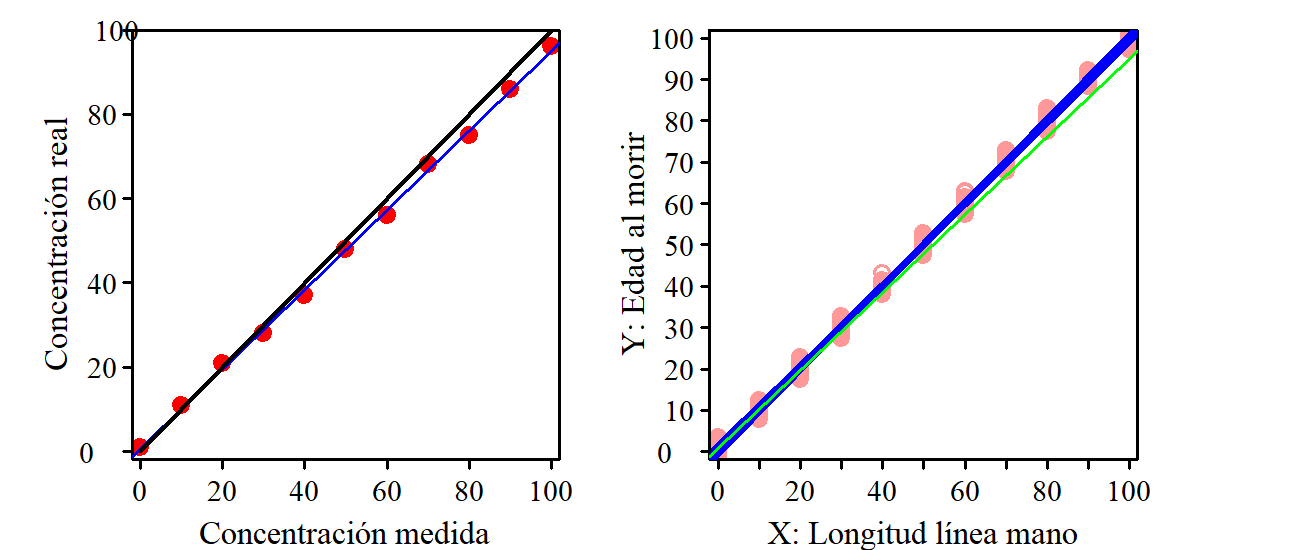
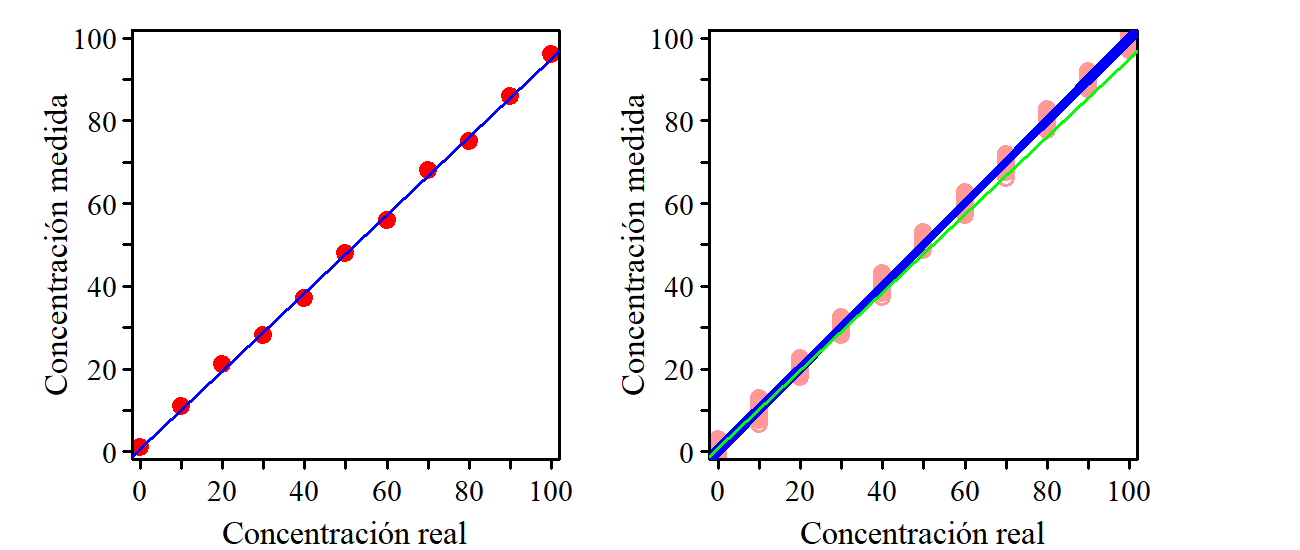
Un poquito más

diff --git a/docs/62_regresionSimple.html b/docs/62_regresionSimple.html
@@ -314,7 +314,7 @@ div.csl-indent {
   <li><a href="#minimizando-la-suma-del-valor-absoluto-de-los-residuos" id="toc-minimizando-la-suma-del-valor-absoluto-de-los-residuos" class="nav-link" data-scroll-target="#minimizando-la-suma-del-valor-absoluto-de-los-residuos">Minimizando la suma del valor absoluto de los residuos</a></li>
   <li><a href="#minimizando-la-suma-de-los-cuadrados-de-los-residuos" id="toc-minimizando-la-suma-de-los-cuadrados-de-los-residuos" class="nav-link" data-scroll-target="#minimizando-la-suma-de-los-cuadrados-de-los-residuos">Minimizando la suma de los cuadrados de los residuos</a></li>
   </ul></li>
-  <li><a href="#mínimos-cuadrados.-cálculo-de-los-coeficientes" id="toc-mínimos-cuadrados.-cálculo-de-los-coeficientes" class="nav-link" data-scroll-target="#mínimos-cuadrados.-cálculo-de-los-coeficientes"><span class="header-section-number">14.2</span> Mínimos cuadrados. Cálculo de los coeficientes</a>
+  <li><a href="#sec-calculoCoeficientes" id="toc-sec-calculoCoeficientes" class="nav-link" data-scroll-target="#sec-calculoCoeficientes"><span class="header-section-number">14.2</span> Mínimos cuadrados. Cálculo de los coeficientes</a>
   <ul class="collapse">
   <li><a href="#sin-fórmulas" id="toc-sin-fórmulas" class="nav-link" data-scroll-target="#sin-fórmulas">Sin fórmulas</a></li>
   <li><a href="#usando-las-fórmulas" id="toc-usando-las-fórmulas" class="nav-link" data-scroll-target="#usando-las-fórmulas">Usando las fórmulas</a></li>
@@ -412,7 +412,9 @@ Modelo determinista frente a modelo estadístico
 <figcaption class="figure-caption">Figura&nbsp;14.2: Ajuste a ojo y el que minimiza la suma de los cuadrados de los residuos.</figcaption>
 </figure>
 </div>
+<div id="tbl-letters" class="anchored">
 <table class="table">
+<caption>Tabla&nbsp;14.1: Ajuste a ojo. Ventajas e inconvenientes</caption>
 <colgroup>
 <col style="width: 10%">
 <col style="width: 90%">
@@ -435,6 +437,7 @@ Modelo determinista frente a modelo estadístico
 </tr>
 </tbody>
 </table>
+</div>
 </section>
 <section id="método-de-ishikawa" class="level3 unnumbered">
 <h3 class="unnumbered anchored" data-anchor-id="método-de-ishikawa">Método de Ishikawa</h3>
@@ -447,7 +450,7 @@ Modelo determinista frente a modelo estadístico
 </div>
 <div id="tbl-letters" class="anchored">
 <table class="table">
-<caption>Tabla&nbsp;14.1: Método de Ishikawa. Ventajas e inconvenientes</caption>
+<caption>Tabla&nbsp;14.2: Método de Ishikawa. Ventajas e inconvenientes</caption>
 <colgroup>
 <col style="width: 10%">
 <col style="width: 90%">
@@ -498,7 +501,7 @@ Kaoru Ishikawa (1915-1989)
 </div>
 <div id="tbl-letters" class="anchored">
 <table class="table">
-<caption>Tabla&nbsp;14.2: Suma de los residuos igual a cero. Ventajas e inconvenientes</caption>
+<caption>Tabla&nbsp;14.3: Suma de los residuos igual a cero. Ventajas e inconvenientes</caption>
 <colgroup>
 <col style="width: 10%">
 <col style="width: 90%">
@@ -534,7 +537,7 @@ Kaoru Ishikawa (1915-1989)
 </div>
 <div id="tbl-letters" class="anchored">
 <table class="table">
-<caption>Tabla&nbsp;14.3: Suma de los residuos igual a cero. Ventajas e inconvenientes</caption>
+<caption>Tabla&nbsp;14.4: Suma de los residuos igual a cero. Ventajas e inconvenientes</caption>
 <colgroup>
 <col style="width: 10%">
 <col style="width: 90%">
@@ -572,7 +575,7 @@ Kaoru Ishikawa (1915-1989)
 </div>
 <div id="tbl-letters" class="anchored">
 <table class="table">
-<caption>Tabla&nbsp;14.4: Minimizar la suma de los cuadrados de los residuos. Ventajas e inconvenientes</caption>
+<caption>Tabla&nbsp;14.5: Minimizar la suma de los cuadrados de los residuos. Ventajas e inconvenientes</caption>
 <colgroup>
 <col style="width: 10%">
 <col style="width: 90%">
@@ -596,8 +599,8 @@ Kaoru Ishikawa (1915-1989)
 </div>
 </section>
 </section>
-<section id="mínimos-cuadrados.-cálculo-de-los-coeficientes" class="level2" data-number="14.2">
-<h2 data-number="14.2" class="anchored" data-anchor-id="mínimos-cuadrados.-cálculo-de-los-coeficientes"><span class="header-section-number">14.2</span> Mínimos cuadrados. Cálculo de los coeficientes</h2>
+<section id="sec-calculoCoeficientes" class="level2" data-number="14.2">
+<h2 data-number="14.2" class="anchored" data-anchor-id="sec-calculoCoeficientes"><span class="header-section-number">14.2</span> Mínimos cuadrados. Cálculo de los coeficientes</h2>
 <p>Existe una fórmula cerrada y con solución única para cada coeficiente, pero vamos a empezar identificando el valor de los coeficientes sin hacer uso de las fórmulas. Naturalmente, es mucho más rápido y más práctico usarlas o -mejor todavía- usar un paquete de software estadístico o una hoja de cálculo, pero hacerlo sin fórmulas permite entender perfectamente qué es lo que se está haciendo, y también descubrir algún detalle interesante.</p>
 <section id="sin-fórmulas" class="level3 unnumbered">
 <h3 class="unnumbered anchored" data-anchor-id="sin-fórmulas">Sin fórmulas</h3>
@@ -734,7 +737,7 @@ Por qué le llamamos modelo de regresión
 </section>
 <section id="transformación-logarítmica" class="level2" data-number="14.5">
 <h2 data-number="14.5" class="anchored" data-anchor-id="transformación-logarítmica"><span class="header-section-number">14.5</span> Transformación logarítmica</h2>
-<p>En algunos casos, los valores de <span class="math inline">\(X\)</span>, los de <span class="math inline">\(Y\)</span>, o ambos, siguen una distribución asimétrica, con valores que aparecen agrupados cerca del origen y muy dispersos hacia los valores altos. Un ejemplo típico de esta situación se da al analizar la relación entre el peso del cerebro y el peso de cuerpo en 62 especies de mamímeros <span class="citation" data-cites="Weisberg">(<a href="references.html#ref-Weisberg" role="doc-biblioref">Weisberg 2014</a>, pág. 186)</span>. La mayoria de esos mamíferos pesan poco –la mediana es de 3,34 kg– pero algunos, como los elefantes, pesan varias toneladas y algo similar ocurre con el peso de los cerebros. Al realizar el diagrama bivariante del peso del cerebro (<span class="math inline">\(Y\)</span>) frente al peso de cuerpo (<span class="math inline">\(X\)</span>) prácticamente todos los puntos aparecen amontonados en la zona próxima al origen, En estas condiciones ajustar un modelo de regresión no tiene sentido, porque la mayoría de datos actúan como un solo punto y los que estan alejados tienen una gran influencia sobre la recta ajustada.</p>
+<p>En algunos casos, los valores de <span class="math inline">\(X\)</span>, los de <span class="math inline">\(Y\)</span>, o ambos, siguen una distribución asimétrica, con valores que aparecen agrupados cerca del origen y muy dispersos hacia los valores altos. Un ejemplo típico de esta situación se da al analizar la relación entre el peso del cerebro y el peso de cuerpo en 62 especies de mamíferos <span class="citation" data-cites="Weisberg">(<a href="references.html#ref-Weisberg" role="doc-biblioref">Weisberg 2014</a>, pág. 186)</span>. La mayoria de esos mamíferos pesan poco –la mediana es de 3,34 kg– pero algunos, como los elefantes, pesan varias toneladas y algo similar ocurre con el peso de los cerebros. Al realizar el diagrama bivariante del peso del cerebro (<span class="math inline">\(Y\)</span>) frente al peso de cuerpo (<span class="math inline">\(X\)</span>) prácticamente todos los puntos aparecen amontonados en la zona próxima al origen, En estas condiciones ajustar un modelo de regresión no tiene sentido, porque la mayoría de datos actúan como un solo punto y los que estan alejados tienen una gran influencia sobre la recta ajustada.</p>
 <div id="fig-brainBodyOriginal" class="quarto-figure quarto-figure-center anchored">
 <figure class="figure">
 <p><img src="regresionSimple/120_brainBodyOriginal.png" class="img-fluid figure-img" style="width:100.0%"></p>
@@ -839,10 +842,10 @@ Transformación logarítmica: No importa la base
 </div>
 <p>Si no hay ninguna relación entre la variable regresora (<span class="math inline">\(X\)</span>) y la respuesta (<span class="math inline">\(Y\)</span>), la pendiente de la recta estará en torno a cero (será igual a cero en la población, pero no disponemos de esos datos que –además– son solo un modelo teórico). Para ver lo que significa “en torno a cero” en los casos que estamos tratando, podemos simular nubes de puntos manteniendo las características de <span class="math inline">\(X\)</span> e <span class="math inline">\(Y\)</span> de forma independiente, suponiendo que no existe ninguna relación entre ellas.</p>
 <p>En el caso del volumen de madera empezamos generando 31 números aleatorios (una cantidad igual a nuestro tamaño de muestra) que asignamos al diámetro de los troncos. Para que estos datos se puedan considerar del mismo tipo de los que tenemos en la muestra es razonable generarlos de una distribución Normal con la media <span class="math inline">\((\bar{x} = 13.25)\)</span> y la desviación típica <span class="math inline">\((s_X = 3.2)\)</span> de los valores que aparecen en la muestra, es decir: <span class="math inline">\(X \sim N(13.25; 3.2)\)</span>. A continuación, a cada valor de <span class="math inline">\(X\)</span> le hacemos corresponder un valor de <span class="math inline">\(Y\)</span> igual a la media de los valores disponibles <span class="math inline">\((\bar{y} = 30.2)\)</span> añadiendo un número aleatorio de una distribución Normal con media cero (ni sube ni baja de forma sistemática el valor de la respuesta) y una desviación típica igual a la que presentan los residuos del modelo ajustado <span class="math inline">\((s_R = 4.25)\)</span>. Por tanto, tendremos: <span class="math inline">\(Y = 30.2 + N(0; 4.25)\)</span>.</p>
-<p>Para el modelo de la edad al morir hacemos exactamente lo mismo con los valores que corresponden. La tabla <a href="#tbl-parametrosSimulacion"><span>14.5</span></a> contiene los usados en cada caso.</p>
+<p>Para el modelo de la edad al morir hacemos exactamente lo mismo con los valores que corresponden. La tabla <a href="#tbl-parametrosSimulacion"><span>14.6</span></a> contiene los usados en cada caso.</p>
 <div id="tbl-parametrosSimulacion" class="anchored">
 <table class="table">
-<caption>Tabla&nbsp;14.5: Valores usados para la simulación.</caption>
+<caption>Tabla&nbsp;14.6: Valores usados para la simulación.</caption>
 <colgroup>
 <col style="width: 26%">
 <col style="width: 20%">
@@ -873,7 +876,7 @@ Transformación logarítmica: No importa la base
 </tbody>
 </table>
 </div>
-<p>Para cada conjunto de puntos simulados se ha calculado la recta ajustada. En los dos casos la simulación se ha repetido 50 veces y en los diagramas de la figura <a href="#fig-pruebasSignificacion"><span>14.20</span></a> se han ido acumulando tanto los puntos como las rectas ajustadas. También se ha añadido, de color verde, la línea correspondiente a los datos de la muestra. Está muy claro que en el caso del volumen de madera, la recta ajustada con los datos de la muestra no se puede confundir con los generados aleatoriamente suponiendo que no hay relación entre ambas variables. Sin embargo, en el caso de la edad al morir, la recta que corresponde a los datos disponibles se confunde con las que hemos simulado, por tanto, el valor de la pendiente queda explicado por la variabilidad intrínseca de los datos, diremos que esa diferencia no es estadísticamente significativa.</p>
+<p>Para cada conjunto de puntos simulados se ha calculado la recta ajustada. En los dos casos la simulación se ha repetido 50 veces y en los diagramas de la figura <a href="#fig-pruebasSignificacion"><span>14.19</span></a> se han ido acumulando tanto los puntos como las rectas ajustadas. También se ha añadido, de color verde, la línea correspondiente a los datos de la muestra. Está muy claro que en el caso del volumen de madera, la recta ajustada con los datos de la muestra no se puede confundir con los generados aleatoriamente suponiendo que no hay relación entre ambas variables. Sin embargo, en el caso de la edad al morir, la recta que corresponde a los datos disponibles se confunde con las que hemos simulado, por tanto, el valor de la pendiente queda explicado por la variabilidad intrínseca de los datos, diremos que esa diferencia no es estadísticamente significativa.</p>
 <div id="fig-pruebasSignificacion" class="quarto-figure quarto-figure-center anchored">
 <figure class="figure">
 <p><img src="regresionSimple/210_pruebasSignaficacion.png" class="img-fluid figure-img" style="width:100.0%"></p>
@@ -898,7 +901,7 @@ Pruebas de significación y contraste de hipótesis
 <p>Una prueba de significación es un caso particular de contraste de hipótesis donde se contrasta que el valor del parámetro es igual a cero. Significación equivale a “significativamente distinto de cero” es decir, que la variabilidad aleatoria no justifica la diferencia respecto a cero.</p>
 </div>
 </div>
-<p>Lo habitual es contrastar que el coeficiente, ya sea <span class="math inline">\(beta_0\)</span> o <span class="math inline">\(\beta_1\)</span> es igual a cero frente a la alternativa de que es distinto de cero.</p>
+<p>Lo habitual es contrastar que el coeficiente, ya sea <span class="math inline">\(\beta_0\)</span> o <span class="math inline">\(\beta_1\)</span> es igual a cero frente a la alternativa de que es distinto de cero.</p>
 <section id="sobre-el-valor-de-la-ordenada-en-el-origen-beta_0" class="level6 unnumbered">
 <h6 class="unnumbered anchored" data-anchor-id="sobre-el-valor-de-la-ordenada-en-el-origen-beta_0"><strong>Sobre el valor de la ordenada en el origen, <span class="math inline">\(\beta_0\)</span></strong></h6>
 <p>Tiene interés cuando hay razones para suponer que la recta pasa por el origen de coordenadas. Permite verificar que los resultados obtenidos no están en contradicción con ese supuesto.</p>
@@ -931,46 +934,86 @@ Ligando las pruebas se significación para <span class="math inline">\(r\)</span
 </section>
 <section id="resultados-presentados-por-los-paquetes-de-software-estadístico" class="level6 unnumbered">
 <h6 class="unnumbered anchored" data-anchor-id="resultados-presentados-por-los-paquetes-de-software-estadístico"><strong>Resultados presentados por los paquetes de software estadístico</strong></h6>
-<p>En general, los paquetes de software estadístico además de presentar los coeficientes del modelo también presentan los <span class="math inline">\(p\)</span>-valores asociados a los contrastes que hemos comentado.</p>
-<div id="fig-pruebasSignificacion" class="quarto-figure quarto-figure-center anchored">
+<p>En general, los paquetes de software estadístico además de presentar los coeficientes del modelo también presentan los <span class="math inline">\(p\)</span>-valores asociados a los contrastes que hemos comentado. La figura <a href="#fig-pruebasSignificacion"><span>14.19</span></a> muestra parte de la salida que proporciona el paquete de software estadístico Minitan en los dos casos que estamos considerando. Los coeficientes se calculan con las fórmulas que hemos deducido en el apartado <a href="#sec-calculoCoeficientes"><span>14.2</span></a> y sus desviaciones típicas con las que aparecen en el apéndice 10.2. Tal como hemos visto, el <strong>T-value</strong> que aparece en el listado es simplemente el cociente entre el coeficiente (<strong>Coef</strong>) y su desviación típica (<strong>SE Coef</strong>) y el p-valor (<strong>P-Value</strong>) es el área de cola -multiplicado por 2, ya que es una prueba bilateral- que deja ese T-Value en una distribución t-Student con <span class="math inline">\(n-2\)</span> grados de libertad, siendo <span class="math inline">\(n\)</span> el número de puntos usados en cada caso.</p>
+<div id="fig-salidaMinitab" class="quarto-figure quarto-figure-center anchored">
 <figure class="figure">
 <p><img src="Figuras/salidaSoftwareRegresion.png" class="img-fluid figure-img" style="width:100.0%"></p>
-<figcaption class="figure-caption">Figura&nbsp;14.20: Distribución de los coeficientes.</figcaption>
+<figcaption class="figure-caption">Figura&nbsp;14.20: Salida del paquete de software estadístico Minitab al ajustar modelos de regresión en los dos ejemplos que hemos visto.</figcaption>
 </figure>
 </div>
-<p>También puede interesar contrastar otros valores para la pendiente de la recta. Por ejemplo, para verificar que un aparato mide correctamente la concentración de monoxido de carbono (CO) en el aire, se mide la concentración de 11 muestras con valores conocidos</p>
+<p>También puede interesar contrastar otros valores para la pendiente de la recta. Para verificar que un aparato mide correctamente la concentración de monoxido de carbono (CO) en el aire, se mide la concentración de 11 muestras con valores conocidos. Los resultados obtenidos son los que se indican en la tabla <a href="#tbl-concentracion"><span>14.7</span></a> <span class="citation" data-cites="Navidi">(<a href="references.html#ref-Navidi" role="doc-biblioref">Navidi 2010</a>, pág. 585)</span>.</p>
+<div id="tbl-concentracion" class="anchored">
 <table class="table">
+<caption>Tabla&nbsp;14.7: Concentración de CO. Valores reales y valores medidos (ppm)</caption>
 <colgroup>
-<col style="width: 51%">
+<col style="width: 18%">
+<col style="width: 5%">
+<col style="width: 6%">
+<col style="width: 6%">
+<col style="width: 6%">
+<col style="width: 6%">
+<col style="width: 6%">
+<col style="width: 6%">
+<col style="width: 6%">
+<col style="width: 6%">
+<col style="width: 6%">
+<col style="width: 7%">
 </colgroup>
 <tbody>
 <tr class="odd">
-<td>Valor real (ppm) |0 | 10 | 20</td>
+<td>Valor real</td>
+<td>0</td>
+<td>10</td>
+<td>20</td>
+<td>30</td>
+<td>40</td>
+<td>50</td>
+<td>60</td>
+<td>70</td>
+<td>80</td>
+<td>90</td>
+<td>100</td>
 </tr>
 <tr class="even">
-<td>Valor medido (ppm) |1 | 11 | 21</td>
+<td>Valor medido</td>
+<td>1</td>
+<td>11</td>
+<td>21</td>
+<td>28</td>
+<td>37</td>
+<td>48</td>
+<td>56</td>
+<td>68</td>
+<td>75</td>
+<td>86</td>
+<td>96</td>
 </tr>
 </tbody>
 </table>
+</div>
+<p>La figura <a href="#fig-pendiente1"><span>14.21</span></a> (izq.) muestra el diagrama bivariante de los valores medidos frente a los reales con su recta ajustada. El aparato estará bien calibrado si -en promedio- el valor de la concentración medida es igual a la concentración real. Es decir, si los datos se ajustan al modelo: <span class="math inline">\(y = x\)</span>.</p>
 <div id="fig-pendiente1" class="quarto-figure quarto-figure-center anchored">
 <figure class="figure">
 <p><img src="regresionSimple/220_pendiente1.png" class="img-fluid figure-img" style="width:100.0%"></p>
-<figcaption class="figure-caption">Figura&nbsp;14.21: Distribución de los coeficientes.</figcaption>
+<figcaption class="figure-caption">Figura&nbsp;14.21: Recta ajustada de la concentración medida frente a la real (izq.). Rectas simuladas suponiendo que -en promedio- la concentración medida es igual a la real (der.)</figcaption>
 </figure>
 </div>
-<p>También puede interesar contrastar otros valores para la pendiente de la recta. Por ejemplo, para verificar que un aparato mide correctamente la concentración de monoxido de carbono (CO) en el aire, se mide la concentración de 11 muestras con valores conocidos.</p>
-<p>Los resultados obtenidos son:</p>
-<div id="fig-pendiente1" class="quarto-figure quarto-figure-center anchored">
+<p>Usando Minitab tenemos los coeficientes del modelo y la prueba de significación para sus valores (figura <a href="#fig-salidaConcentracion"><span>14.22</span></a>).</p>
+<div id="fig-salidaConcentracion" class="quarto-figure quarto-figure-center anchored">
 <figure class="figure">
-<p><img src="regresionSimple/220_pendiente1.png" class="img-fluid figure-img" style="width:100.0%"></p>
-<figcaption class="figure-caption">Figura&nbsp;14.22: Distribución de los coeficientes.</figcaption>
+<p><img src="Figuras/salidaConcentracion.png" class="img-fluid figure-img" style="width:100.0%"></p>
+<figcaption class="figure-caption">Figura&nbsp;14.22: Salida del paquete de software estadístico Minitab al ajustar modelos de regresión en los dos ejemplos que hemos visto.</figcaption>
 </figure>
 </div>
+<p>Vemos que la ordenada en el origen (Minitab le llama “Constant” pero ya dijimos que esta no nos parece una denominación adecuada) no es significativamente distinta de cero por lo que hemos recalculado el modelo sin ese término. En el nuevo modelo el valor de <span class="math inline">\(b_1\)</span> (coeficiente de la concentración real) es claramente significativo (significativamente distinto de cero) pero no es eso lo que nos preocupa. Lo que queremos saber es si es significativamente distinto de 1. Minitab no lo hace automaticamente pero es muy fácil hacerlo a mano:</p>
+<p><span class="math display">\[  T =  \frac{b_1-1}{s_{b_1}} = \frac{0.95351-1}{0.00598} = -7.77\]</span> Si efectivamente <span class="math inline">\(\beta_1 = 1\)</span> el valor de <span class="math inline">\(T\)</span> pertenece a una distribución <span class="math inline">\(t\)</span>-Student, pero si lo fuera su valor estaría comprendido aproximadamente entre -2 y 2, y el valor que hemos obtenido está muy lejos de este intervalo. Por tanto, la hipótesis nula de que <span class="math inline">\(\beta_1=1\)</span> queda descartada. El aparato no está bien calibrado.</p>
+<p>En la figura <a href="#fig-pendiente1"><span>14.21</span></a> (der.) se han representado las rectas ajustadas (color azul) de valores de la concentración medida (<span class="math inline">\(y\)</span>) en función de la concentración real (<span class="math inline">\(x\)</span>) generados con el modelo <span class="math inline">\(y = x + e\)</span> siendo <span class="math inline">\(e\)</span> valores de una distribución Normal con media cero y una desviación típica igual a la que presentan los residuos del modelo obtenido. La recta ajustada con los datos reales aparece de color verde (es la misma que tenemos en el diagrama de la izquierda), claramente se ve que no se confunde con las generadas aleatoriamente suponiendo que el aparato está bien calibrado, a partir de una concentración de 50 tiende a dar valores menores que los reales.</p>
 </section>
 </section>
 <section id="intervalos-de-confianza-para-la-respuesta" class="level3" data-number="14.6.1">
 <h3 data-number="14.6.1" class="anchored" data-anchor-id="intervalos-de-confianza-para-la-respuesta"><span class="header-section-number">14.6.1</span> Intervalos de confianza para la respuesta</h3>
 <p>-Intervalos de confianza para las predicciones.</p>
+<p>Mas/menos dos sigmas de los residuos y listos.</p>
 <p>-IC para las observaciones.</p>
 </section>
 </section>
@@ -1039,6 +1082,9 @@ Draper, N. R., y H. Smith. 1998. <em>Applied Regression Analysis</em>. 3.ª ed. 
 </div>
 <div id="ref-MontgomeryPeck" class="csl-entry" role="listitem">
 Montgomery, D. C., y E. A. Peck. 1992. <em>Introduction to Linear Regression Analysis</em>. 2.ª ed. USA: John Wiley &amp; Sons, Inc.
+</div>
+<div id="ref-Navidi" class="csl-entry" role="listitem">
+Navidi, W. 2010. <em>Statistics for Engineers and Scientists</em>. 3.ª ed. USA: McGraw Hill.
 </div>
 <div id="ref-PeñaRegre" class="csl-entry" role="listitem">
 Peña, D. 2002. <em>Regresión y diseño de experimentos</em>. 1.ª ed. Madrid: Alianza Editorial.

diff --git a/docs/22_distribucionesProbabilidad.html b/docs/22_distribucionesProbabilidad.html
@@ -183,7 +183,7 @@ ul.task-list li input[type="checkbox"] {
           <li class="sidebar-item">
   <div class="sidebar-item-container"> 
   <a href="./33_estimacionTamañoPoblacion.html" class="sidebar-item-text sidebar-link">
- <span class="menu-text"><span class="chapter-number">7</span>&nbsp; <span class="chapter-title">Estadística descriptiva</span></span></a>
+ <span class="menu-text"><span class="chapter-number">7</span>&nbsp; <span class="chapter-title">Estimación del tamaño de la población</span></span></a>
   </div>
 </li>
       </ul>
@@ -199,19 +199,19 @@ ul.task-list li input[type="checkbox"] {
       <ul id="quarto-sidebar-section-4" class="collapse list-unstyled sidebar-section depth1 show">  
           <li class="sidebar-item">
   <div class="sidebar-item-container"> 
-  <a href="./Conceptos_CH.html" class="sidebar-item-text sidebar-link">
+  <a href="./41_Conceptos_CH.html" class="sidebar-item-text sidebar-link">
  <span class="menu-text"><span class="chapter-number">8</span>&nbsp; <span class="chapter-title">Conceptos</span></span></a>
   </div>
 </li>
           <li class="sidebar-item">
   <div class="sidebar-item-container"> 
-  <a href="./Proceso_CH.html" class="sidebar-item-text sidebar-link">
+  <a href="./42_Proceso_CH.html" class="sidebar-item-text sidebar-link">
  <span class="menu-text"><span class="chapter-number">9</span>&nbsp; <span class="chapter-title">Esquema de razonamiento</span></span></a>
   </div>
 </li>
           <li class="sidebar-item">
   <div class="sidebar-item-container"> 
-  <a href="./tiposError_CH.html" class="sidebar-item-text sidebar-link">
+  <a href="./43_tiposError_CH.html" class="sidebar-item-text sidebar-link">
  <span class="menu-text"><span class="chapter-number">10</span>&nbsp; <span class="chapter-title">Tipos de error</span></span></a>
   </div>
 </li>
@@ -228,14 +228,14 @@ ul.task-list li input[type="checkbox"] {
       <ul id="quarto-sidebar-section-5" class="collapse list-unstyled sidebar-section depth1 show">  
           <li class="sidebar-item">
   <div class="sidebar-item-container"> 
-  <a href="./floresAspirina.html" class="sidebar-item-text sidebar-link">
- <span class="menu-text"><span class="chapter-number">11</span>&nbsp; <span class="chapter-title">Estadística descriptiva</span></span></a>
+  <a href="./51_floresAspirina.html" class="sidebar-item-text sidebar-link">
+ <span class="menu-text"><span class="chapter-number">11</span>&nbsp; <span class="chapter-title">¿La Aspirina alarga la vida de las flores?</span></span></a>
   </div>
 </li>
           <li class="sidebar-item">
   <div class="sidebar-item-container"> 
-  <a href="./duracionPilas.html" class="sidebar-item-text sidebar-link">
- <span class="menu-text"><span class="chapter-number">12</span>&nbsp; <span class="chapter-title">Regresión</span></span></a>
+  <a href="./52_duracionPilas.html" class="sidebar-item-text sidebar-link">
+ <span class="menu-text"><span class="chapter-number">12</span>&nbsp; <span class="chapter-title">¿Duran más las pilas caras?</span></span></a>
   </div>
 </li>
       </ul>
